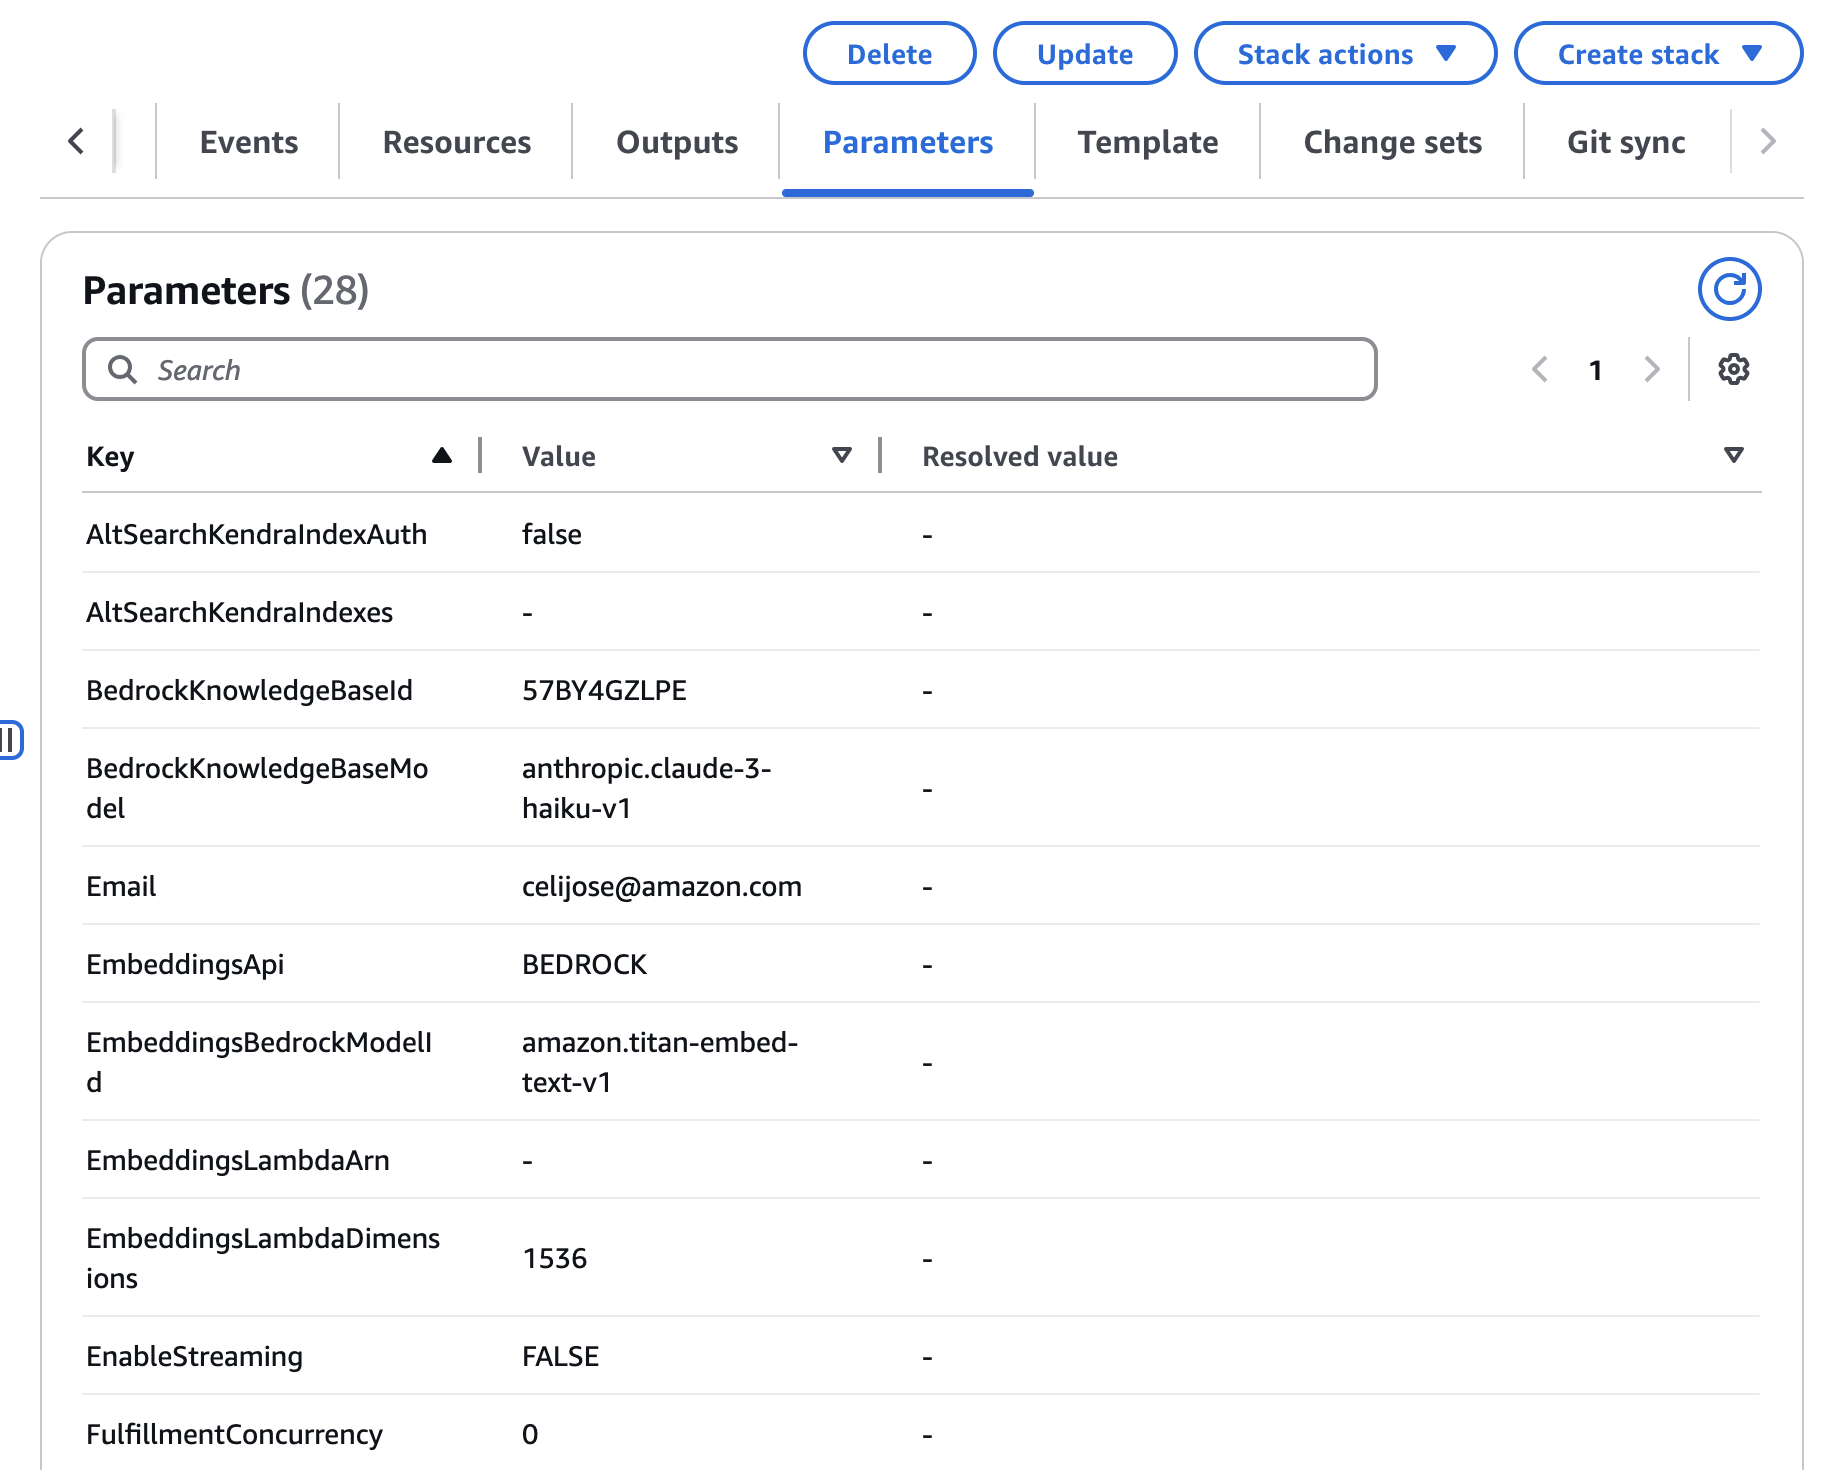
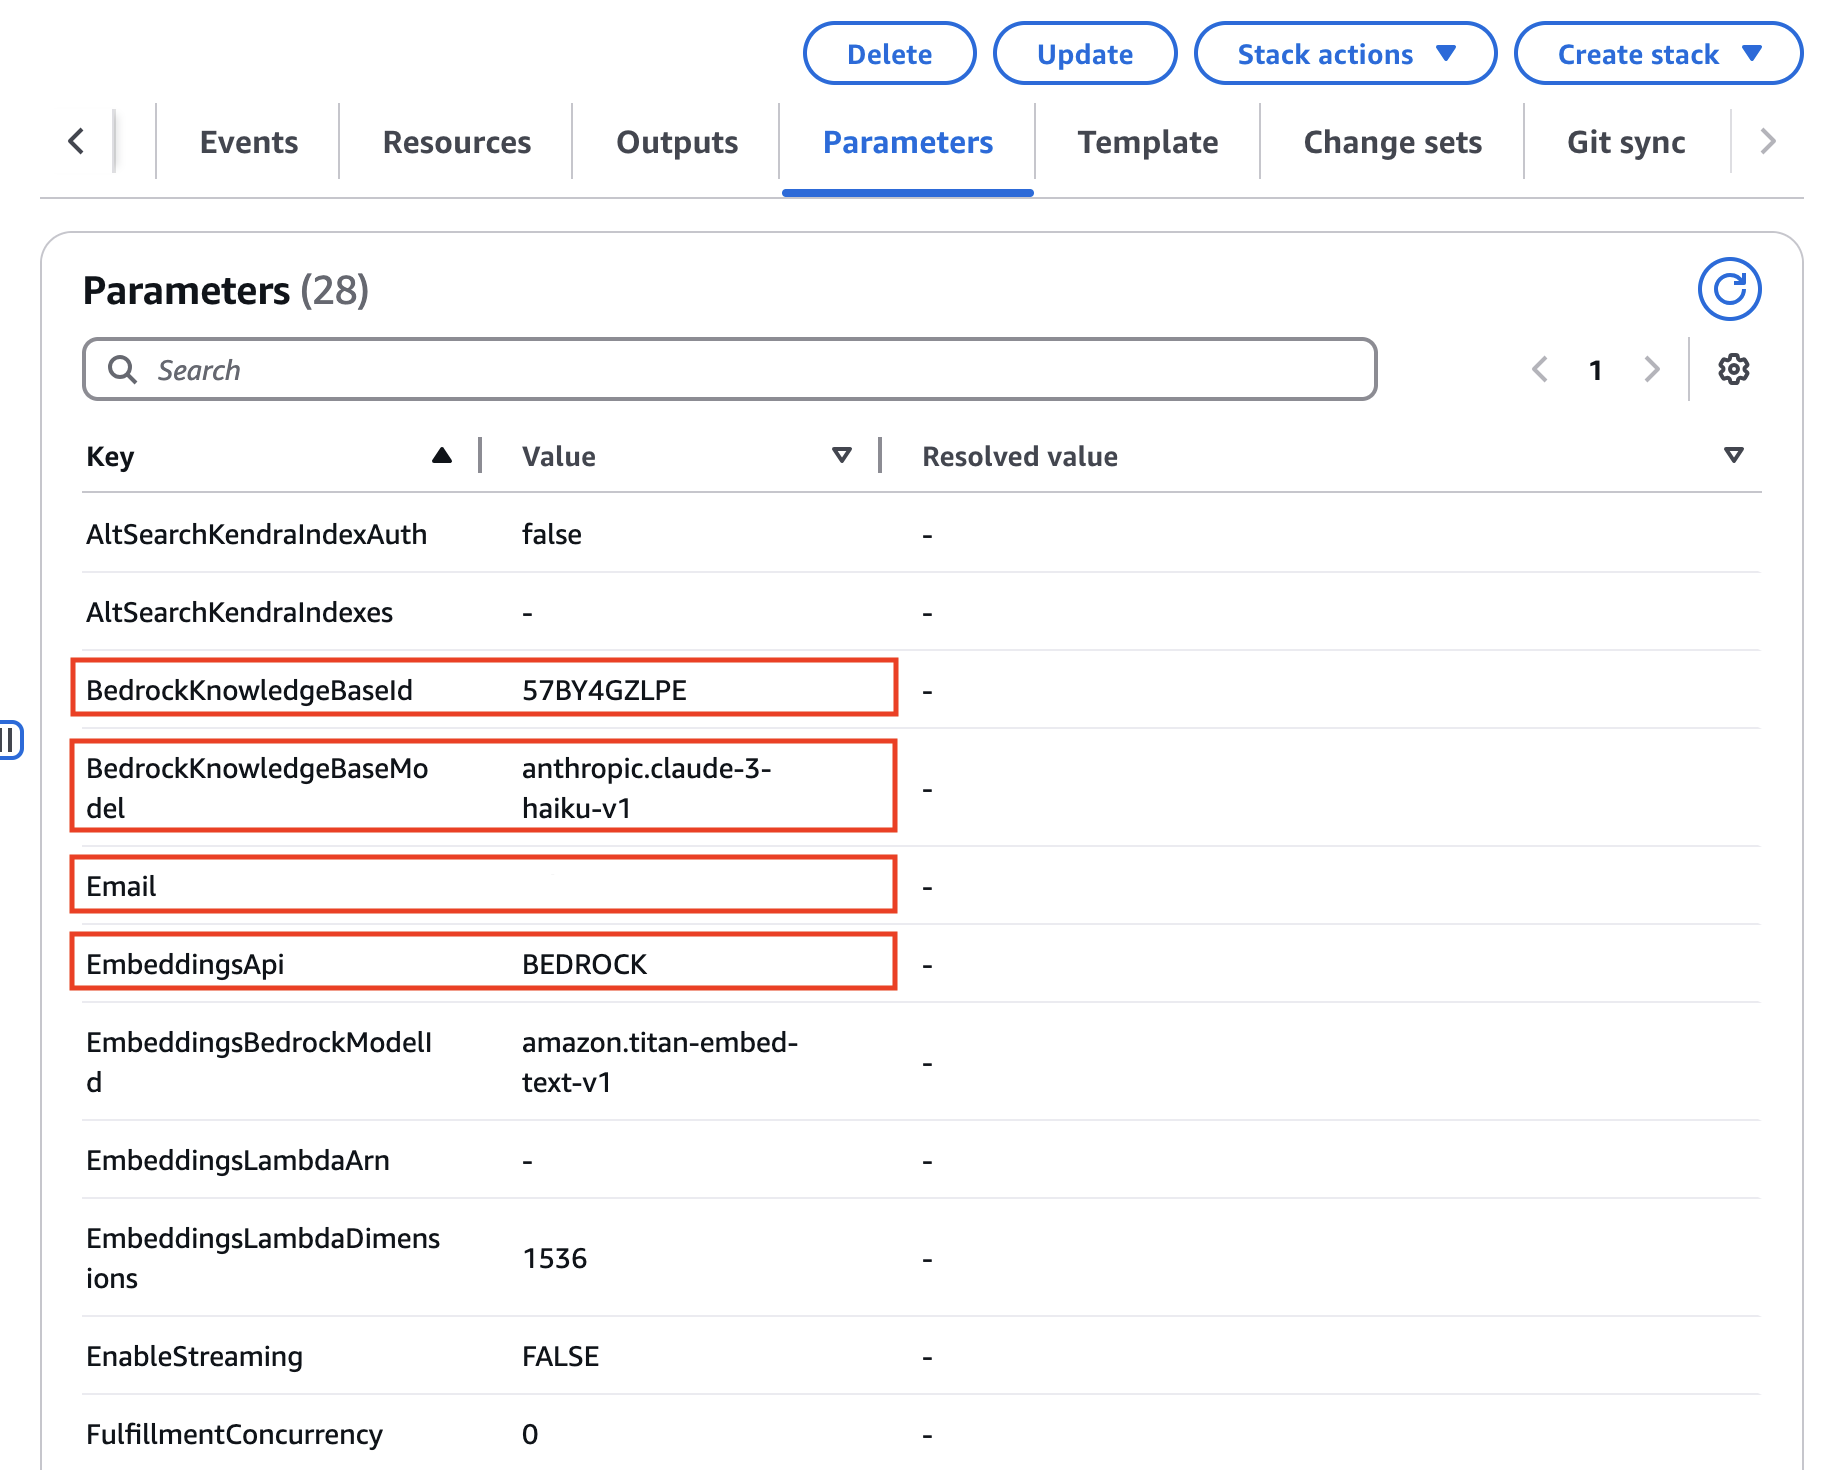
Updated QnA Bot deployment instructions

Changed region(s): [[0.0312, 0.4286, 0.5, 0.6735]]

diff --git a/Instructions/QnABot_readme.md b/Instructions/QnABot_readme.md
@@ -15,7 +15,7 @@ Deployment Instructions
 - Provide a unique stack name.
 - Provide your email as the admin for this installation. You can also create additional users in Cognito once the stack is deployed.
 - Please obtain the Bedrock knowlegde base ID "iotqnabotonecallkbiotqnabotonecallkbid" from the **Outputs** of the cloudformationstack that you have deployed with the file **iot-qnabot-onecall-agent.yml** to provide as a parameter to the QnABot AWS Cloudformation stack.
-- While deploying the cloudformation, plesae ensure that the input parameters match as per the screenshots below. Only change will be your knowledge base id created as part of "Deploy Agent Orchestration workflow"
+- While deploying the cloudformation, plesae ensure that the input parameters match as per the screenshots below. Please note the highlighted parameters. Also change the knowledge base id, created as part of "Deploy Agent Orchestration workflow"
 
 ![Parameter List1](../assets/images/QnABot_Cfn_Parameter1.png)
 
